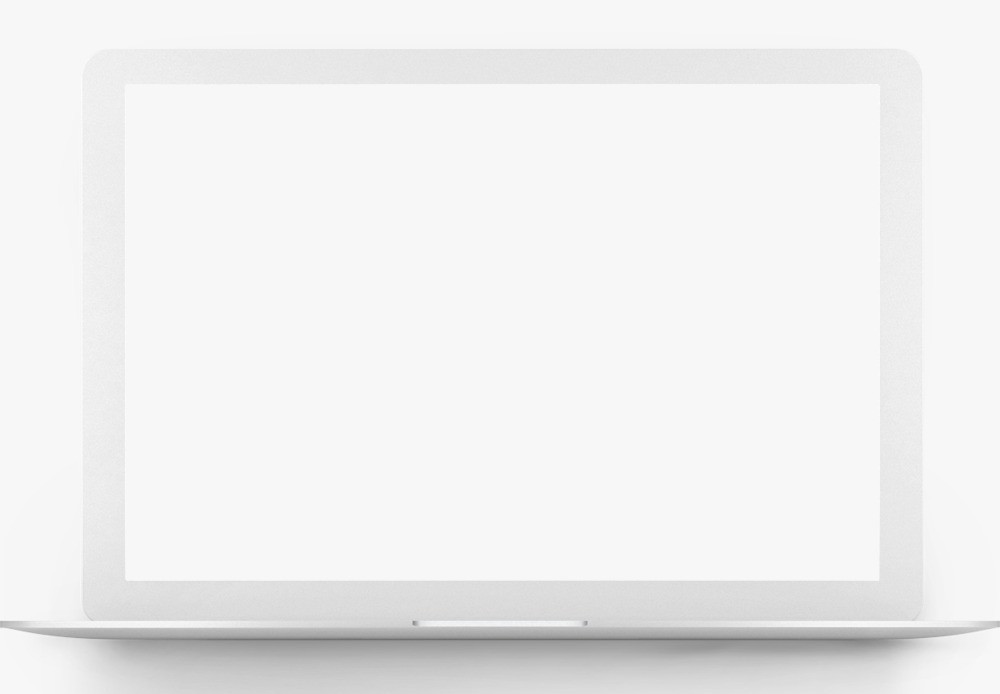
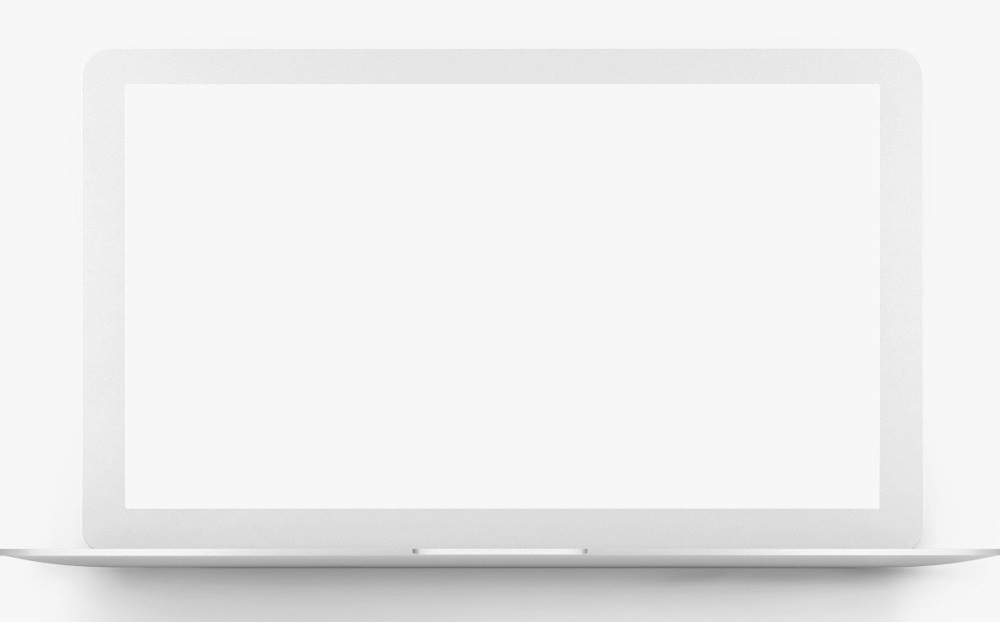
fix(video): cut laptop screen size to video aspect

diff --git a/video/demo.html b/video/demo.html
@@ -23,9 +23,9 @@
     video {
       position: absolute;
       left: 50.2%;
-      top: calc(85 * 100vh / 694);
+      top: calc(85 * 100vh / 622);
       transform: translateX(-50%);
-      width: calc(752 * 100vh / 694);
+      width: calc(752 * 100vh / 622);
       border: 0;
     }
   </style>
